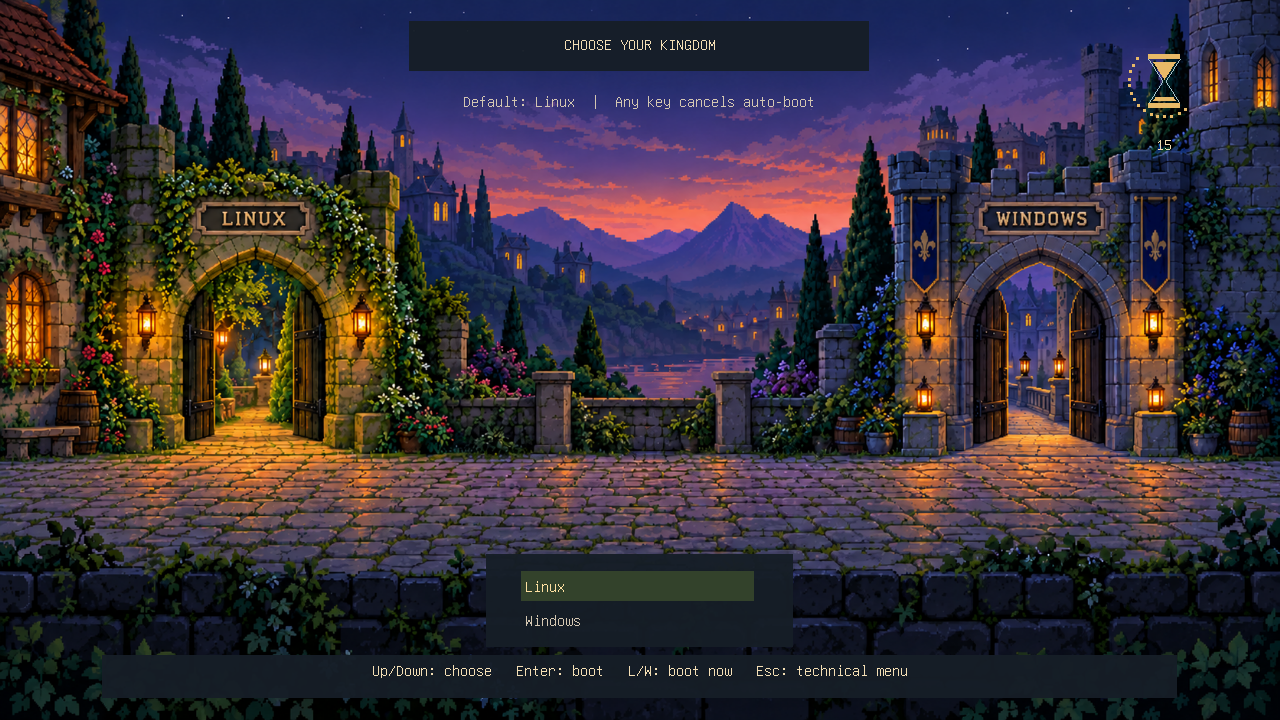
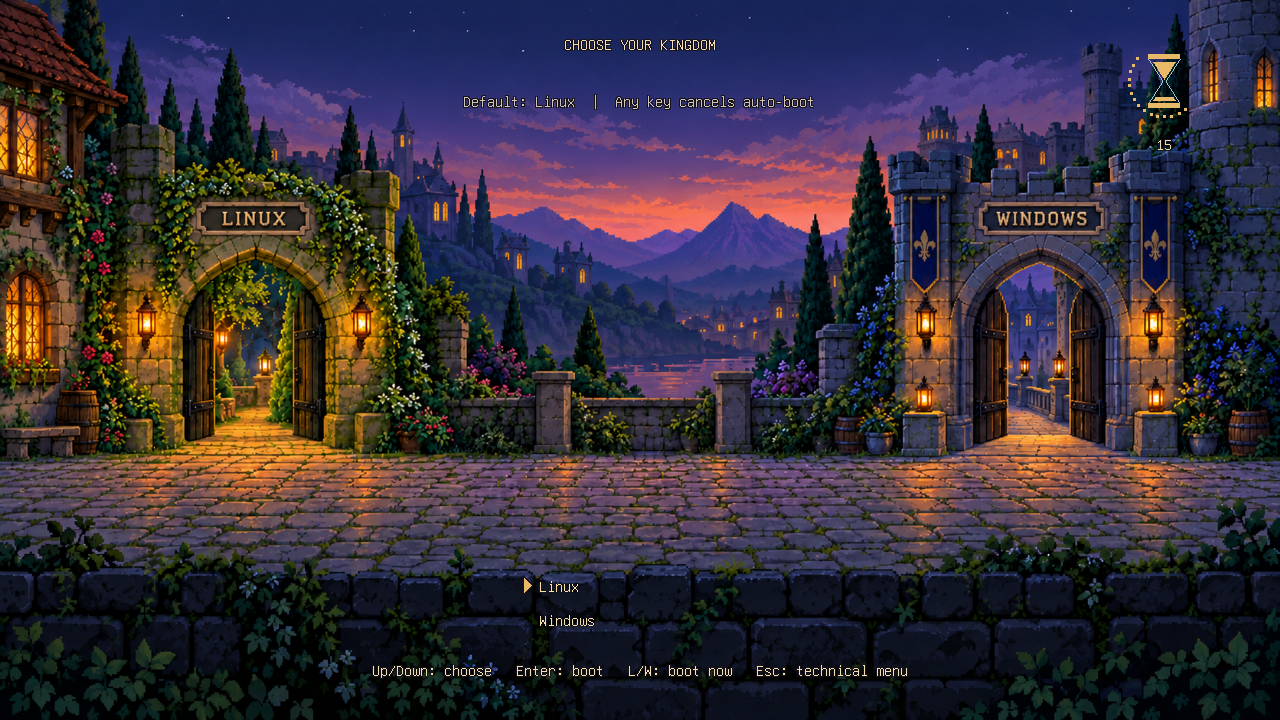
fix: make slim title and menu backgrounds transparent

Changed region(s): [[0.0625, 0.7639, 0.9375, 0.9778], [0.3125, 0.0306, 0.6875, 0.1528]]

diff --git a/tools/theme.py b/tools/theme.py
@@ -27,22 +27,52 @@ def build(target):
                 return gold
         return (0, 0, 0, 0)
     png(target / 'hourglass.png', 48, 64, glass)
-    png(target / 'panel.png', 1, 1, lambda x, y: (22, 30, 39, 245))
     png(target / 'tick.png', 3, 3, lambda x, y: gold)
-    png(target / 'selected_c.png', 8, 8, lambda x, y: (53, 69, 44, 240))
-    (target / 'theme.txt').write_text('''# bourgeois slim: all interaction belongs to stock GRUB.
+    transparent = (0, 0, 0, 0)
+    def pointer(x, y):
+        if 3 <= x <= 10 and abs(y - 14) <= 10 - x:
+            return gold
+        if 2 <= x <= 11 and abs(y - 14) <= 12 - x:
+            return (24, 19, 22, 255)
+        return transparent
+    png(target / 'selected_w.png', 14, 30, pointer)
+    png(target / 'selected_c.png', 1, 1, lambda x, y: transparent)
+    png(target / 'shadow_w.png', 14, 30, lambda x, y: transparent)
+    png(target / 'shadow_c.png', 1, 1, lambda x, y: transparent)
+
+    def label(left, top, width, height, text, color, identifier=None):
+        attributes = f'id = "{identifier}" ' if identifier else ''
+        if text is not None:
+            attributes += f'text = "{text}" '
+        # Canvas paints in reverse declaration order. Shadows follow the face.
+        return ''.join(
+            f'+ label {{ left = {left}{dx:+d} top = {top}{dy:+d} width = {width} height = {height} '
+            f'{attributes}align = center color = "{ink}" }}\n'
+            for dx, dy, ink in [(0, 0, color), (-1, -1, '#181316'),
+                                (-1, 1, '#181316'), (1, -1, '#181316'), (1, 1, '#181316')])
+
+    def menu(offset, color, selected_color, pixmaps):
+        return (f'+ boot_menu {{ left = 40%+{offset} top = 78%+{offset} width = 20% height = 76 '
+                f'item_height = 30 item_spacing = 4 item_padding = 10 item_color = "{color}" '
+                f'selected_item_color = "{selected_color}" selected_item_pixmap_style = "{pixmaps}_*.png" '
+                'item_font = "Unifont Regular 16" icon_width = 0 icon_height = 0 scrollbar = false }\n')
+
+    output = '''# bourgeois slim: all interaction belongs to stock GRUB.
 title-text: ""
 desktop-image: "courtyard-nameplates.png"
 desktop-image-scale-method: "stretch"
 terminal-font: "Unifont Regular 16"
-+ label { left = 25% top = 5% width = 50% height = 30 text = "CHOOSE YOUR KINGDOM" align = center color = "#f4dfb5" }
+'''
+    output += label('25%', '5%', '50%', 30, 'CHOOSE YOUR KINGDOM', '#f4dfb5')
+    output += '''
 + circular_progress { id = "__timeout__" left = 88% top = 5% width = 76 height = 90 center_bitmap = "hourglass.png" tick_bitmap = "tick.png" num_ticks = 30 ticks_disappear = true start_angle = -90 }
-+ label { id = "__timeout__" left = 86% top = 19% width = 10% height = 24 align = center color = "#f4dfb5" }
-+ boot_menu { left = 40% top = 78% width = 20% height = 76 item_height = 30 item_spacing = 4 item_padding = 10 item_color = "#d4c7b2" selected_item_color = "#ffe1a1" selected_item_pixmap_style = "selected_*.png" item_font = "Unifont Regular 16" icon_width = 0 icon_height = 0 scrollbar = false }
-+ label { left = 10% top = 92% width = 80% height = 24 text = "Up/Down: choose   Enter: boot   L/W: boot now   Esc: technical menu" align = center color = "#f4dfb5" }
-+ label { left = 30% top = 13% width = 40% height = 24 text = "Default: Linux  |  Any key cancels auto-boot" align = center color = "#d4c7b2" }
-# Canvas paints the last declared components first.
-+ image { left = 32% top = 3% width = 36% height = 7% file = "panel.png" }
-+ image { left = 38% top = 77% width = 24% height = 13% file = "panel.png" }
-+ image { left = 8% top = 91% width = 84% height = 6% file = "panel.png" }
-''')
+'''
+    output += label('86%', '19%', '10%', 24, None, '#f4dfb5', '__timeout__')
+    # Both lists show the same native menu; the rear list supplies text shadow.
+    output += menu(0, '#f4dfb5', '#ffe1a1', 'selected')
+    output += menu(1, '#181316', '#181316', 'shadow')
+    output += label('10%', '92%', '80%', 24,
+                    'Up/Down: choose   Enter: boot   L/W: boot now   Esc: technical menu', '#f4dfb5')
+    output += label('30%', '13%', '40%', 24,
+                    'Default: Linux  |  Any key cancels auto-boot', '#d4c7b2')
+    (target / 'theme.txt').write_text(output)
